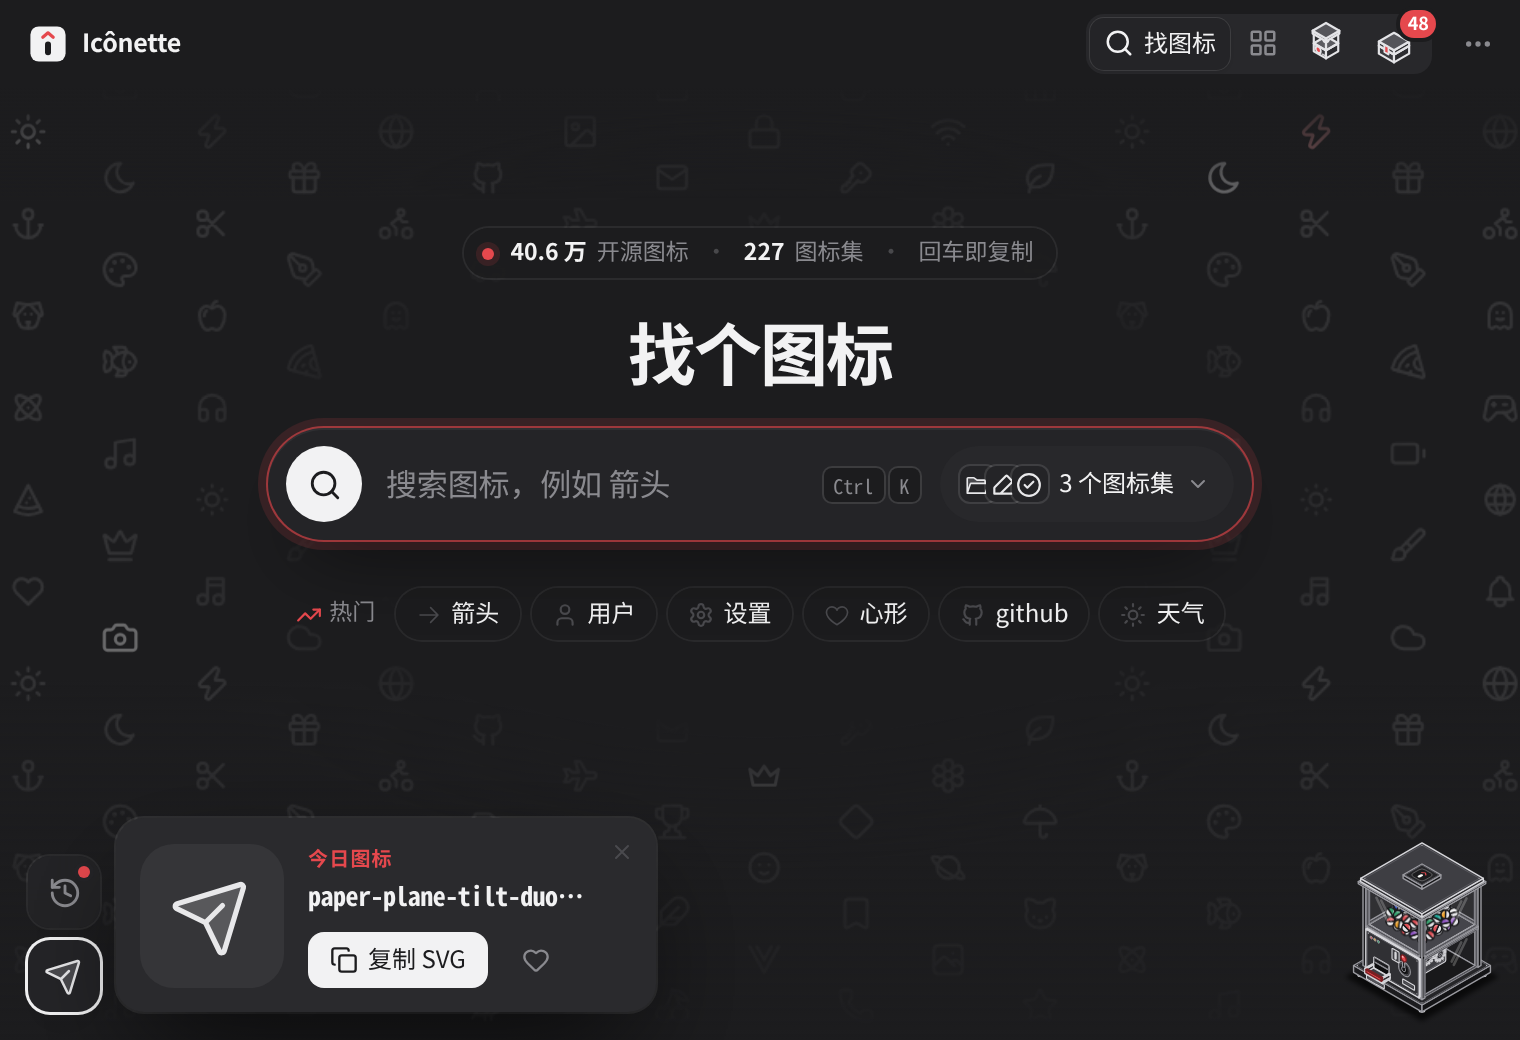
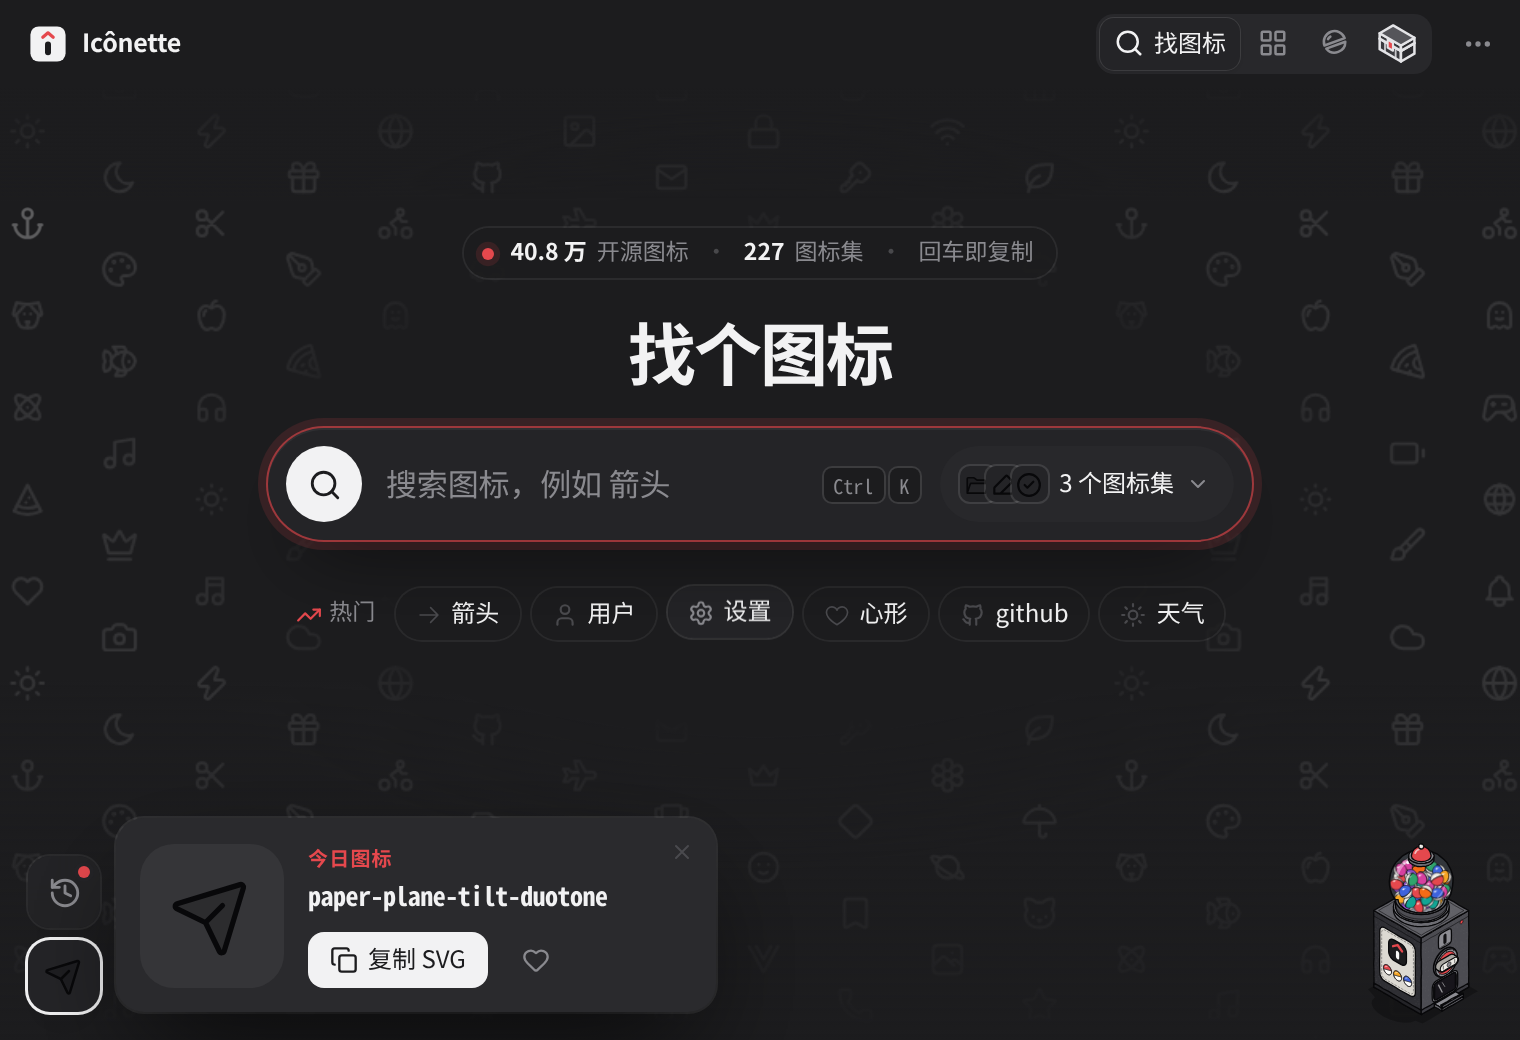
chore: v0.4.0 — release notes, README text and screenshots
Bump to 0.4.0 (package.json, tauri.conf.json, Cargo.toml, Cargo.lock). Release notes (zh): hand-inked gashapon,
idea chest favourites, non-blocking transitions, custom shortcut, favourites export/import, update check.
README: new home / gacha / chest screenshots; drop the exploded-intro and capsule-case shots.

diff --git a/.github/release-notes.md b/.github/release-notes.md
@@ -1,26 +1,27 @@
-Icônette v0.3.1：修复部分 Windows 电脑上双击后没有任何反应、程序直接退出的问题。Windows 和 macOS（Intel + Apple Silicon）通用。
+Icônette v0.4.0：全新手绘扭蛋机、灵感宝箱收藏页、更顺滑的页面切换，并带来自定义快捷键、收藏导入导出和应用内检查更新。Windows 和 macOS（Intel + Apple Silicon）通用。
 
 ## 下载
 
 | 平台 | 文件 |
 | --- | --- |
-| Windows 10 / 11（推荐） | `Iconette_0.3.1_x64-setup.exe`，装到当前用户，不需要管理员权限 |
-| Windows 企业部署 | `Iconette_0.3.1_x64_en-US.msi` |
-| macOS 10.15+ | `Iconette_0.3.1_universal.dmg` |
+| Windows 10 / 11（推荐） | `Iconette_0.4.0_x64-setup.exe`，装到当前用户，不需要管理员权限 |
+| Windows 企业部署 | `Iconette_0.4.0_x64_en-US.msi` |
+| macOS 10.15+ | `Iconette_0.4.0_universal.dmg` |
 
-macOS 暂未签名，第一次打开请右键 App → 打开，或执行 `xattr -cr /Applications/Iconette.app`。从 0.1 / 0.2 / 0.3 升级直接覆盖安装即可，收藏和设置都会保留。
+macOS 暂未签名，第一次打开请右键 App → 打开，或执行 `xattr -cr /Applications/Iconette.app`。从 0.1 – 0.3 升级直接覆盖安装即可，收藏和设置都会保留。
 
-## 修复
+## 新功能
 
-- **Alt + Space 被占用时无法启动**：如果 PowerToys Run、uTools、Wox / Flow Launcher、Microsoft Copilot、ChatGPT 桌面版等已经占用了 Alt + Space，之前的版本会在启动时直接退出（没有窗口、没有提示）。现在快捷键注册失败不会再影响启动
-- **自动改用 Alt + Shift + Space**：Alt + Space 被占用时，速取窗口的全局快捷键自动改为 Alt + Shift + Space；托盘菜单和界面里的快捷键提示会显示实际生效的那个。两个都被占用时仍可从托盘菜单或首页按钮打开速取窗口
-- **崩溃日志**：启动失败或程序崩溃时会把原因写进日志，反馈问题时请附上：
-  - Windows：`%LOCALAPPDATA%\io.github.hry1729.iconette\logs\iconette.log`
-  - macOS：`~/Library/Logs/io.github.hry1729.iconette/iconette.log`
-- 托盘图标创建失败（例如资源管理器正在重启）时不再阻止程序启动
+- **全新扭蛋机**：手绘墨线等距风格，红色顶帽、玻璃球里装满红 / 黄 / 蓝等双色胶囊，机身铭牌印着 Icônette 标志。拖动旋钮转一圈（或按空格 / 点「扭一下」），机身晃动、胶囊跟着抖，出蛋口翻开滚出一枚胶囊，弹起开壳变成一张图标集或组件卡片；收下就跳进机器旁的小宝箱，放回就飞回球里。不再播放开场拆装动画
+- **灵感宝箱收藏页**：收藏页回到粗墨线的宝箱，箱子常开；进入时 6 枚胶囊从箱口飞出、落位开成 3 × 2 张卡片，翻页时旧的 6 张飞回、新的 6 张同时飞出，页码显示「1 / N」。宝箱左后方站着一台小扭蛋机，点它直接去扭蛋
+- **更顺滑的切换**：任何页面切换都不再等离场动画，新页面立刻可用；首页迷你扭蛋机会放大成扭蛋机，扭蛋 ↔ 收藏之间宝箱和扭蛋机会互相变形过去。系统开启「减少动态效果」时直接显示结果
+- **标题栏**：「划一划」换成扭蛋胶囊图标，收藏宝箱图标更大更清楚，去掉了数量角标
+- **自定义快捷键**：菜单 → 速取快捷键，按下想要的组合即可录制，可随时恢复默认；被其他程序占用时会提示
+- **收藏导入 / 导出**：菜单里可以把图标、分组、图标库、组件库和最近复制导出成一个 JSON 文件，换电脑后导入，可选「合并」或「替换」
+- **检查更新**：启动时静默检查新版本，菜单里也可以手动检查；有新版本时顶部会提示，可一键前往下载（发布包带签名时可直接在应用内更新）
 
 ## 仍然支持
 
-8 种复制格式（SVG、PNG、Vue、React、UnoCSS 等）、中英文搜索、范围弹层、其他风格、拖出 SVG、组件库实时示例、划一划卡片 / 扭蛋模式、扭蛋收纳盒、收藏分组、Alt / ⌥ + Space 速取窗口、系统托盘、开机启动。
+8 种复制格式（SVG、PNG、Vue、React、UnoCSS 等）、中英文搜索、范围弹层、其他风格、拖出 SVG、组件库实时示例、划一划卡片模式、收藏分组、最近复制、首页今日图标坞、速取窗口、系统托盘、开机启动。
 
 基于 [antfu/icones](https://github.com/antfu/icones)，图标数据来自 [Iconify](https://iconify.design)。
